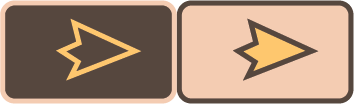
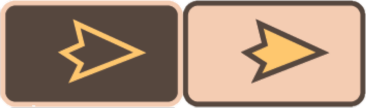
sprite changes

diff --git a/HAPI_APP/src/OverWorldGUI.cpp b/HAPI_APP/src/OverWorldGUI.cpp
@@ -82,6 +82,7 @@ OverWorldGUI::OverWorldGUI()
 	m_prebattleUIBackground(std::make_unique<Sprite>(Textures::m_prebattleUIBackground)),
 	m_playButton(std::make_unique<Sprite>(Textures::m_preBattleUIPlayButton)),
 	m_backButton(std::make_unique<Sprite>(Textures::m_preBattleUIBackButton)),
+	m_nextButton(std::make_unique<Sprite>(Textures::m_preBattleUINextButton)),
 	m_quitButton(std::make_unique<Sprite>(Textures::m_quitButton)),
 	m_playerSelectYellow(std::make_unique<Sprite>(Textures::m_playerSelectIconYellow)),
 	m_playerSelectGreen(std::make_unique<Sprite>(Textures::m_playerSelectIconGreen)),
@@ -145,13 +146,13 @@ void OverWorldGUI::render(Battle& battle)
 			m_playerSelectRed->Render(SCREEN_SURFACE);
 			m_playerSelectBlue->Render(SCREEN_SURFACE);
 			m_backButton->Render(SCREEN_SURFACE);
-			m_playButton->Render(SCREEN_SURFACE);
+			m_nextButton->Render(SCREEN_SURFACE);
 			break;
 		}
 		case OverWorldWindow::eShipSelection:
 		{
 			m_prebattleUIBackground->Render(SCREEN_SURFACE);
-			m_playButton->Render(SCREEN_SURFACE);
+			m_nextButton->Render(SCREEN_SURFACE);
 			m_backButton->Render(SCREEN_SURFACE);
 			m_upgradesButton->Render(SCREEN_SURFACE);
 			if (m_currentlySelected != nullptr)
@@ -295,7 +296,7 @@ void OverWorldGUI::onLeftClick(const HAPI_TMouseData& mouseData, Player& current
 			{
 				CURRENT_WINDOW = OverWorldWindow::eMainMenu;
 			}
-			if (HAPI_Wrapper::isTranslated(m_playButton, mouseData, 0))
+			if (HAPI_Wrapper::isTranslated(m_nextButton, mouseData, 0))
 			{
 
 				// put int function
@@ -368,7 +369,7 @@ void OverWorldGUI::onLeftClick(const HAPI_TMouseData& mouseData, Player& current
 				CURRENT_WINDOW = OverWorldWindow::eUpgrade;
 				UI.OpenWindow(UPGRADE_FLEET_WINDOW);
 			}
-			if (HAPI_Wrapper::isTranslated(m_playButton, mouseData, 0))
+			if (HAPI_Wrapper::isTranslated(m_nextButton, mouseData, 0))
 			{
 				if (!currentSelectedPlayer.m_selectedEntities.empty())
 				{
@@ -559,13 +560,13 @@ void OverWorldGUI::onMouseMove(const HAPI_TMouseData& mouseData, Player& current
 	}
 	case OverWorldWindow::ePlayerSelection:
 	{
-		if (HAPI_Wrapper::isTranslated(m_playButton, mouseData, 0))
+		if (HAPI_Wrapper::isTranslated(m_nextButton, mouseData, 0))
 		{
-			m_playButton->SetFrameNumber(1);
+			m_nextButton->SetFrameNumber(0);
 		}
-		else if (m_playButton->GetFrameNumber() != 0)
+		else if (m_nextButton->GetFrameNumber() != 1)
 		{
-			m_playButton->SetFrameNumber(0);
+			m_nextButton->SetFrameNumber(1);
 		}
 	}
 	case OverWorldWindow::eLevelSelection:
@@ -623,13 +624,13 @@ void OverWorldGUI::onMouseMove(const HAPI_TMouseData& mouseData, Player& current
 	}
 	case OverWorldWindow::eShipSelection:
 	{
-		if (HAPI_Wrapper::isTranslated(m_playButton, mouseData, 0))
+		if (HAPI_Wrapper::isTranslated(m_nextButton, mouseData, 0))
 		{
-			m_playButton->SetFrameNumber(1);
+			m_nextButton->SetFrameNumber(0);
 		}
-		else if (m_playButton->GetFrameNumber() != 0)
+		else if (m_nextButton->GetFrameNumber() != 1)
 		{
-			m_playButton->SetFrameNumber(0);
+			m_nextButton->SetFrameNumber(1);
 		}
 
 		if (HAPI_Wrapper::isTranslated(m_backButton, mouseData, 0))
@@ -779,6 +780,7 @@ void OverWorldGUI::reset(const std::vector<EntityProperties>& playerEntities)
 
 	HAPI_Wrapper::setPosition(m_prebattleUIBackground, { 160, 90 });
 	HAPI_Wrapper::setPosition(m_playButton, { 1310, 812 });
+	HAPI_Wrapper::setPosition(m_nextButton, { 1310, 812 });
 	HAPI_Wrapper::setPosition(m_quitButton, { 1600, 812 });
 	HAPI_Wrapper::setPosition(m_backButton, { 345, 837 });
 	HAPI_Wrapper::setPosition(m_upgradesButton, { 1460, 115 });

diff --git a/HAPI_APP/src/Textures.h b/HAPI_APP/src/Textures.h
@@ -111,6 +111,13 @@ struct Textures
 			return false;
 		}
 
+		m_preBattleUINextButton = HAPI_Wrapper::makeSpriteSheet("PrebattleUINextButton.png", 2);
+		if (!m_preBattleUINextButton)
+		{
+			HAPI_Sprites.UserMessage("Cannot Load : 'PrebattleUINextButton.png'", "Texture Error");
+			return false;
+		}
+
 		m_thing = HAPI_Wrapper::makeSpriteSheet("thing.png");
 		if (!m_thing)
 		{
@@ -381,6 +388,7 @@ struct Textures
 	static std::shared_ptr<SpriteSheet> m_playerSelectBackground;
 	static std::shared_ptr<SpriteSheet> m_prebattleUIBackground;
 	static std::shared_ptr<SpriteSheet> m_preBattleUIPlayButton;
+	static std::shared_ptr<SpriteSheet>m_preBattleUINextButton;
 	static std::shared_ptr<SpriteSheet> m_preBattleUIBackButton;
 	static std::shared_ptr<SpriteSheet> m_thing;
 	static std::shared_ptr<SpriteSheet> m_hexTiles;

diff --git a/HAPI_APP/src/Textures.cpp b/HAPI_APP/src/Textures.cpp
@@ -10,6 +10,7 @@ std::shared_ptr<SpriteSheet> Textures::m_levelSelect4;
 std::shared_ptr<SpriteSheet> Textures::m_levelSelect5;
 std::shared_ptr<SpriteSheet> Textures::m_prebattleUIBackground;
 std::shared_ptr<SpriteSheet> Textures::m_preBattleUIPlayButton;
+std::shared_ptr<SpriteSheet> Textures::m_preBattleUINextButton;
 std::shared_ptr<SpriteSheet> Textures::m_preBattleUIBackButton;
 std::shared_ptr<SpriteSheet> Textures::m_playerSelectIconYellow; 
 std::shared_ptr<SpriteSheet> Textures::m_playerSelectIconGreen;

diff --git a/HAPI_APP/src/OverWorldGUI.h b/HAPI_APP/src/OverWorldGUI.h
@@ -33,6 +33,7 @@ private:
 	std::unique_ptr<Sprite> m_prebattleUIBackground;
 	std::unique_ptr<Sprite> m_playButton;
 	std::unique_ptr<Sprite> m_backButton;
+	std::unique_ptr<Sprite> m_nextButton;
 
 	std::unique_ptr<Sprite> m_background;
 	std::unique_ptr<Sprite> m_quitButton;
